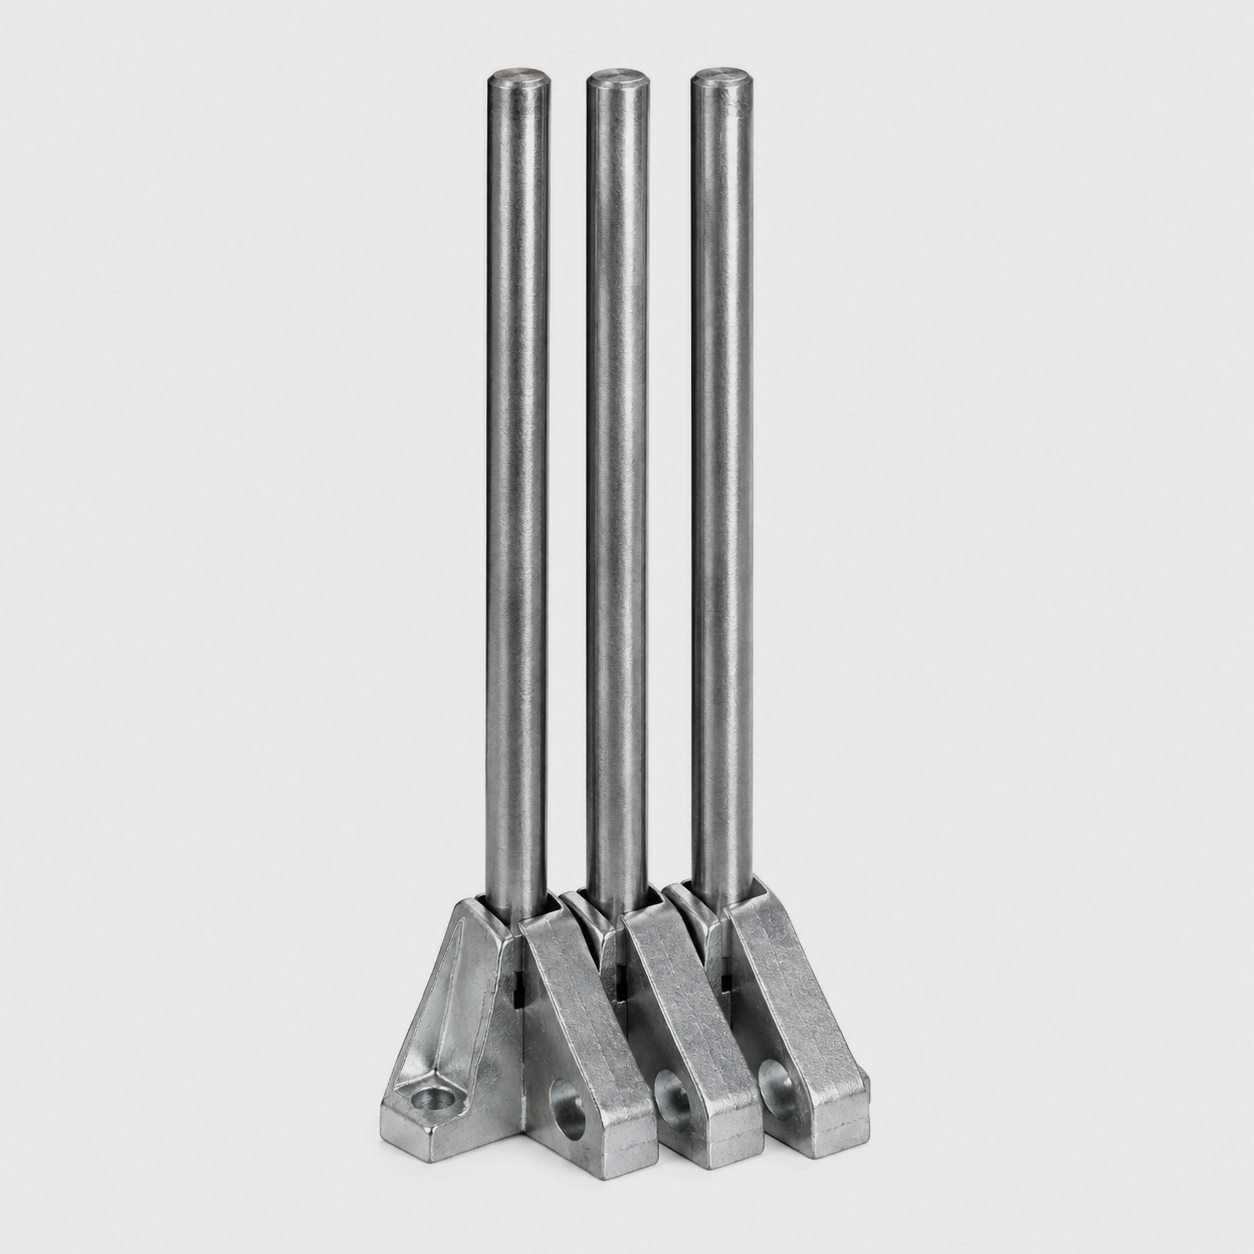
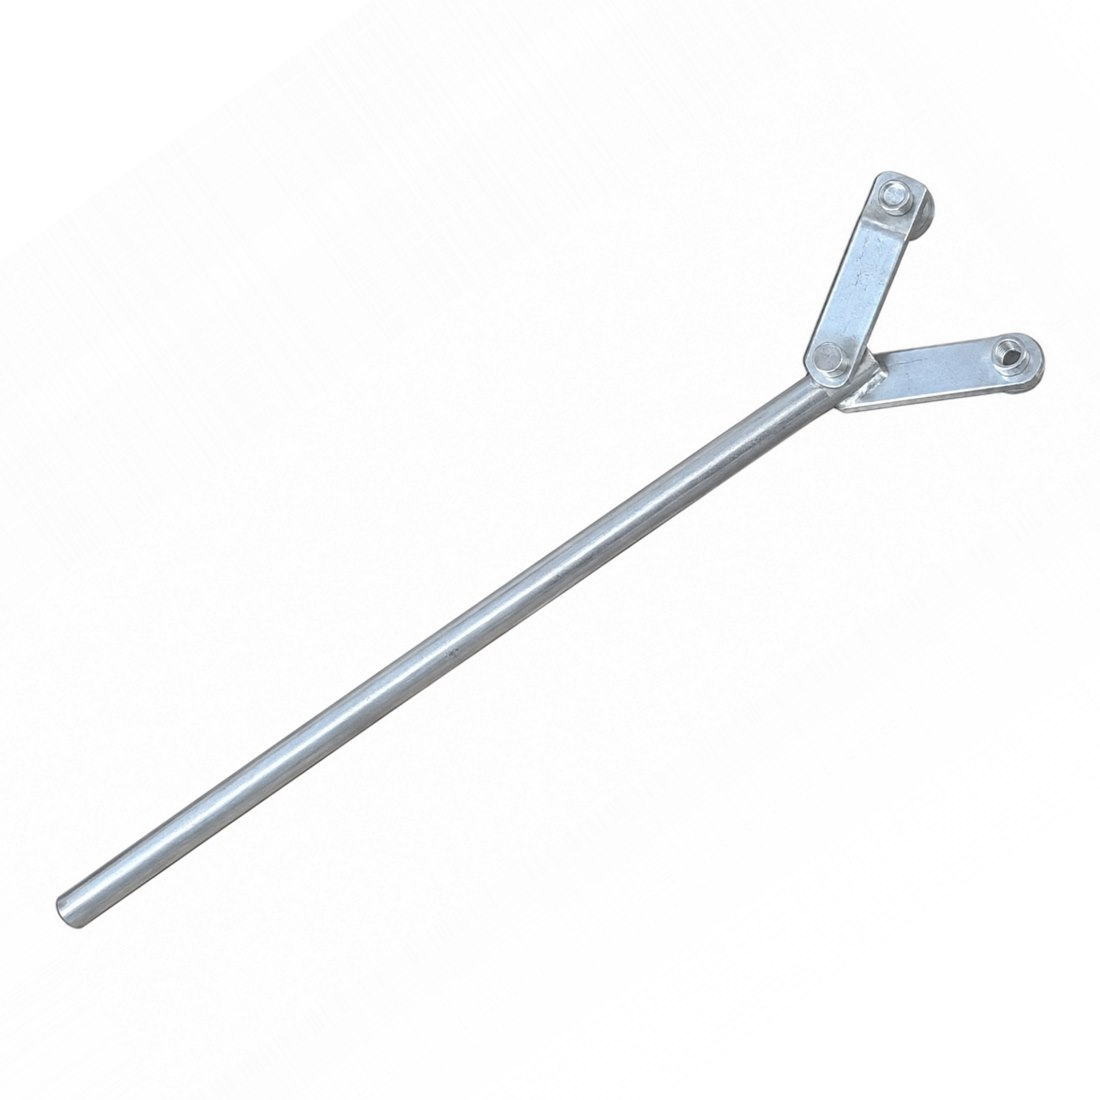
Ficha tecnica nos cards de produto e foto nova do desformador
Material, acabamento e medida peca a peca, dentro dos cards que ja existem:
sem tabela lateral e sem elemento novo, como o cliente pediu. A linha unica
de spec virou ficha com rotulo apagado e valor claro, na mesma tipografia,
com rotulo e valor na mesma linha para nao virar tabela nem estourar no card
de cinco colunas.

Nove dos treze cards mudaram. "Porta alinhador" virou "Porta alinhador
angular", e a mensagem do WhatsApp do card acompanhou.

Desformador: foto nova, girada -35 graus porque a peca e 3,2:1 e o card e
quadrado. A peca aqui e clara, entao o detector de caixa passou a procurar
"mais escuro que o papel" em vez de pixel escuro.

Changed region(s): [[0.0309, 0.0309, 0.9582, 0.9582]]

diff --git a/index.html b/index.html
@@ -154,38 +154,38 @@
     <div class="fam">
       <article class="fam__c reveal">
         <span class="fam__img"><img src="assets/img/prod/pinos.jpg" alt="Pinos em aço carbono nas bitolas 3.2 e 4.0" width="620" height="620" loading="lazy" decoding="async"></span>
-        <span class="fam__b"><h3>Pinos</h3><span class="spec">Aço carbono 3.2 e 4.0</span></span>
+        <span class="fam__b"><h3>Pinos</h3><span class="ficha"><span><i>Material</i>SAE 1045</span><span><i>Acabamento</i>Temperado</span></span></span>
         <a class="fam__go" href="https://wa.me/5511932408652?text=Ol%C3%A1!%20Vim%20pelo%20site%20e%20gostaria%20de%20um%20or%C3%A7amento%20para%20*Pinos*." target="_blank" rel="noopener">Orçamento <svg viewBox="0 0 24 24" aria-hidden="true"><path d="M5 12h13m-5-5 5 5-5 5"/></svg></a>
       </article>
 
       <article class="fam__c reveal">
         <span class="fam__img"><img src="assets/img/prod/cunhas.jpg" alt="Cunhas em aço carbono para travamento de forma" width="620" height="620" loading="lazy" decoding="async"></span>
-        <span class="fam__b"><h3>Cunhas</h3><span class="spec">Aço carbono</span></span>
+        <span class="fam__b"><h3>Cunhas</h3><span class="ficha"><span><i>Material</i>SAE 1045</span><span><i>Acabamento</i>Temperado</span></span></span>
         <a class="fam__go" href="https://wa.me/5511932408652?text=Ol%C3%A1!%20Vim%20pelo%20site%20e%20gostaria%20de%20um%20or%C3%A7amento%20para%20*Cunhas*." target="_blank" rel="noopener">Orçamento <svg viewBox="0 0 24 24" aria-hidden="true"><path d="M5 12h13m-5-5 5 5-5 5"/></svg></a>
       </article>
 
       <article class="fam__c reveal">
         <span class="fam__img"><img src="assets/img/prod/faquetas.jpg" alt="Faqueta em aço carbono com dois furos" width="620" height="620" loading="lazy" decoding="async"></span>
-        <span class="fam__b"><h3>Faquetas</h3><span class="spec">Aço carbono</span></span>
+        <span class="fam__b"><h3>Faquetas</h3><span class="ficha"><span><i>Material</i>SAE 1045 e SAE 1070</span><span><i>Acabamento</i>Temperado</span></span></span>
         <a class="fam__go" href="https://wa.me/5511932408652?text=Ol%C3%A1!%20Vim%20pelo%20site%20e%20gostaria%20de%20um%20or%C3%A7amento%20para%20*Faquetas*." target="_blank" rel="noopener">Orçamento <svg viewBox="0 0 24 24" aria-hidden="true"><path d="M5 12h13m-5-5 5 5-5 5"/></svg></a>
       </article>
 
       <article class="fam__c reveal">
         <span class="fam__img"><img src="assets/img/prod/saca-faqueta.jpg" alt="Saca faqueta, ferramenta de desforma" width="620" height="620" loading="lazy" decoding="async"></span>
-        <span class="fam__b"><h3>Saca faqueta</h3><span class="spec">Ferramenta de desforma</span></span>
+        <span class="fam__b"><h3>Saca faqueta</h3><span class="ficha"><span class="ficha__d">Ferramenta de desforma</span></span></span>
         <a class="fam__go" href="https://wa.me/5511932408652?text=Ol%C3%A1!%20Vim%20pelo%20site%20e%20gostaria%20de%20um%20or%C3%A7amento%20para%20*Saca%20faqueta*." target="_blank" rel="noopener">Orçamento <svg viewBox="0 0 24 24" aria-hidden="true"><path d="M5 12h13m-5-5 5 5-5 5"/></svg></a>
       </article>
 
       <article class="fam__c reveal">
         <span class="fam__img"><img src="assets/img/prod/alinhador-duplo.jpg" alt="Alinhador duplo em perfil metálico" width="620" height="620" loading="lazy" decoding="async"></span>
-        <span class="fam__b"><h3>Alinhador duplo</h3><span class="spec">Perfil metálico</span></span>
+        <span class="fam__b"><h3>Alinhador duplo</h3><span class="ficha"><span><i>Material</i>SAE 1020</span><span><i>Espessura</i>3 mm</span></span></span>
         <a class="fam__go" href="https://wa.me/5511932408652?text=Ol%C3%A1!%20Vim%20pelo%20site%20e%20gostaria%20de%20um%20or%C3%A7amento%20para%20*Alinhador%20duplo*." target="_blank" rel="noopener">Orçamento <svg viewBox="0 0 24 24" aria-hidden="true"><path d="M5 12h13m-5-5 5 5-5 5"/></svg></a>
       </article>
 
       <article class="fam__c reveal">
         <span class="fam__img"><img src="assets/img/prod/porta-alinhador.jpg" alt="Porta alinhador angular Alum e Plus" width="620" height="620" loading="lazy" decoding="async"></span>
-        <span class="fam__b"><h3>Porta alinhador</h3><span class="spec">Angular Alum e Plus</span></span>
-        <a class="fam__go" href="https://wa.me/5511932408652?text=Ol%C3%A1!%20Vim%20pelo%20site%20e%20gostaria%20de%20um%20or%C3%A7amento%20para%20*Porta%20alinhador*." target="_blank" rel="noopener">Orçamento <svg viewBox="0 0 24 24" aria-hidden="true"><path d="M5 12h13m-5-5 5 5-5 5"/></svg></a>
+        <span class="fam__b"><h3>Porta alinhador angular</h3><span class="ficha"><span><i>Modelo</i>Alum e Plus</span><span><i>Aço</i>SAE 1020</span></span></span>
+        <a class="fam__go" href="https://wa.me/5511932408652?text=Ol%C3%A1!%20Vim%20pelo%20site%20e%20gostaria%20de%20um%20or%C3%A7amento%20para%20*Porta%20alinhador%20angular*." target="_blank" rel="noopener">Orçamento <svg viewBox="0 0 24 24" aria-hidden="true"><path d="M5 12h13m-5-5 5 5-5 5"/></svg></a>
       </article>
 
       <article class="fam__c reveal">
@@ -196,7 +196,7 @@
 
       <article class="fam__c reveal">
         <span class="fam__img"><img src="assets/img/prod/desformador.jpg" alt="Desformador, haste de desforma" width="620" height="620" loading="lazy" decoding="async"></span>
-        <span class="fam__b"><h3>Desformador</h3><span class="spec">Haste de desforma</span></span>
+        <span class="fam__b"><h3>Desformador</h3><span class="ficha"><span class="ficha__d">Ferramenta de desforma</span><span><i>Material</i>SAE 1020</span><span><i>Medida</i>22 mm</span></span></span>
         <a class="fam__go" href="https://wa.me/5511932408652?text=Ol%C3%A1!%20Vim%20pelo%20site%20e%20gostaria%20de%20um%20or%C3%A7amento%20para%20*Desformador*." target="_blank" rel="noopener">Orçamento <svg viewBox="0 0 24 24" aria-hidden="true"><path d="M5 12h13m-5-5 5 5-5 5"/></svg></a>
       </article>
 
@@ -214,7 +214,7 @@
 
       <article class="fam__c reveal">
         <span class="fam__img"><img src="assets/img/prod/pino-roscado.jpg" alt="Pino roscado em aço carbono" width="620" height="620" loading="lazy" decoding="async"></span>
-        <span class="fam__b"><h3>Pino roscado</h3><span class="spec">Aço carbono</span></span>
+        <span class="fam__b"><h3>Pino roscado</h3><span class="ficha"><span><i>Material</i>SAE 1045</span><span><i>Acabamento</i>Temperado</span></span></span>
         <a class="fam__go" href="https://wa.me/5511932408652?text=Ol%C3%A1!%20Vim%20pelo%20site%20e%20gostaria%20de%20um%20or%C3%A7amento%20para%20*Pino%20roscado*." target="_blank" rel="noopener">Orçamento <svg viewBox="0 0 24 24" aria-hidden="true"><path d="M5 12h13m-5-5 5 5-5 5"/></svg></a>
       </article>
 
@@ -226,7 +226,7 @@
 
       <article class="fam__c reveal">
         <span class="fam__img"><img src="assets/img/prod/dw15.jpg" alt="DW15, acessório de ancoragem" width="620" height="620" loading="lazy" decoding="async"></span>
-        <span class="fam__b"><h3>DW15</h3><span class="spec">Ancoragem</span></span>
+        <span class="fam__b"><h3>DW15</h3><span class="ficha"><span class="ficha__d">Peça para fixação do painel de ciclo</span></span></span>
         <a class="fam__go" href="https://wa.me/5511932408652?text=Ol%C3%A1!%20Vim%20pelo%20site%20e%20gostaria%20de%20um%20or%C3%A7amento%20para%20*DW15*." target="_blank" rel="noopener">Orçamento <svg viewBox="0 0 24 24" aria-hidden="true"><path d="M5 12h13m-5-5 5 5-5 5"/></svg></a>
       </article>
 

diff --git a/assets/css/style.css b/assets/css/style.css
@@ -457,6 +457,11 @@ html{scrollbar-color:var(--line-hi) var(--ink-950);scrollbar-width:thin}
 }
 
 .fam__b{display:block;padding:.85rem .95rem 0}
+.ficha{display:grid;gap:.22rem;margin-top:.1rem}
+.ficha > span{font:500 .7rem/1.35 var(--mono);letter-spacing:.07em;
+  text-transform:uppercase;color:var(--steel-300);text-wrap:pretty}
+.ficha i{font-style:normal;color:var(--steel-500);margin-right:.42em}
+.ficha__d{color:var(--steel-400)}
 .fam__c h3{font:800 1rem/1.1 var(--disp);letter-spacing:-.02em;text-transform:uppercase;
   margin-bottom:.28rem}
 .fam__go{display:inline-flex;align-items:center;gap:.45rem;margin-top:auto;
@@ -978,6 +983,9 @@ html{scrollbar-color:var(--line-hi) var(--ink-950);scrollbar-width:thin}
   .fam__b{padding:.7rem .75rem 0}
   .fam__c h3{font-size:.9rem;letter-spacing:-.01em;margin-bottom:.2rem}
   .fam__c .spec{font-size:.62rem;letter-spacing:.06em}
+  .ficha{gap:.15rem}
+  .ficha > span{font-size:.62rem;letter-spacing:.04em;line-height:1.3}
+  .ficha i{margin-right:.35em}
   .fam__go{padding:.6rem .75rem .8rem;font-size:.62rem;letter-spacing:.08em}
   .fam__go svg{width:.85rem;height:.85rem}
   .fam__mais{margin-top:1.1rem;font-size:.88rem}
